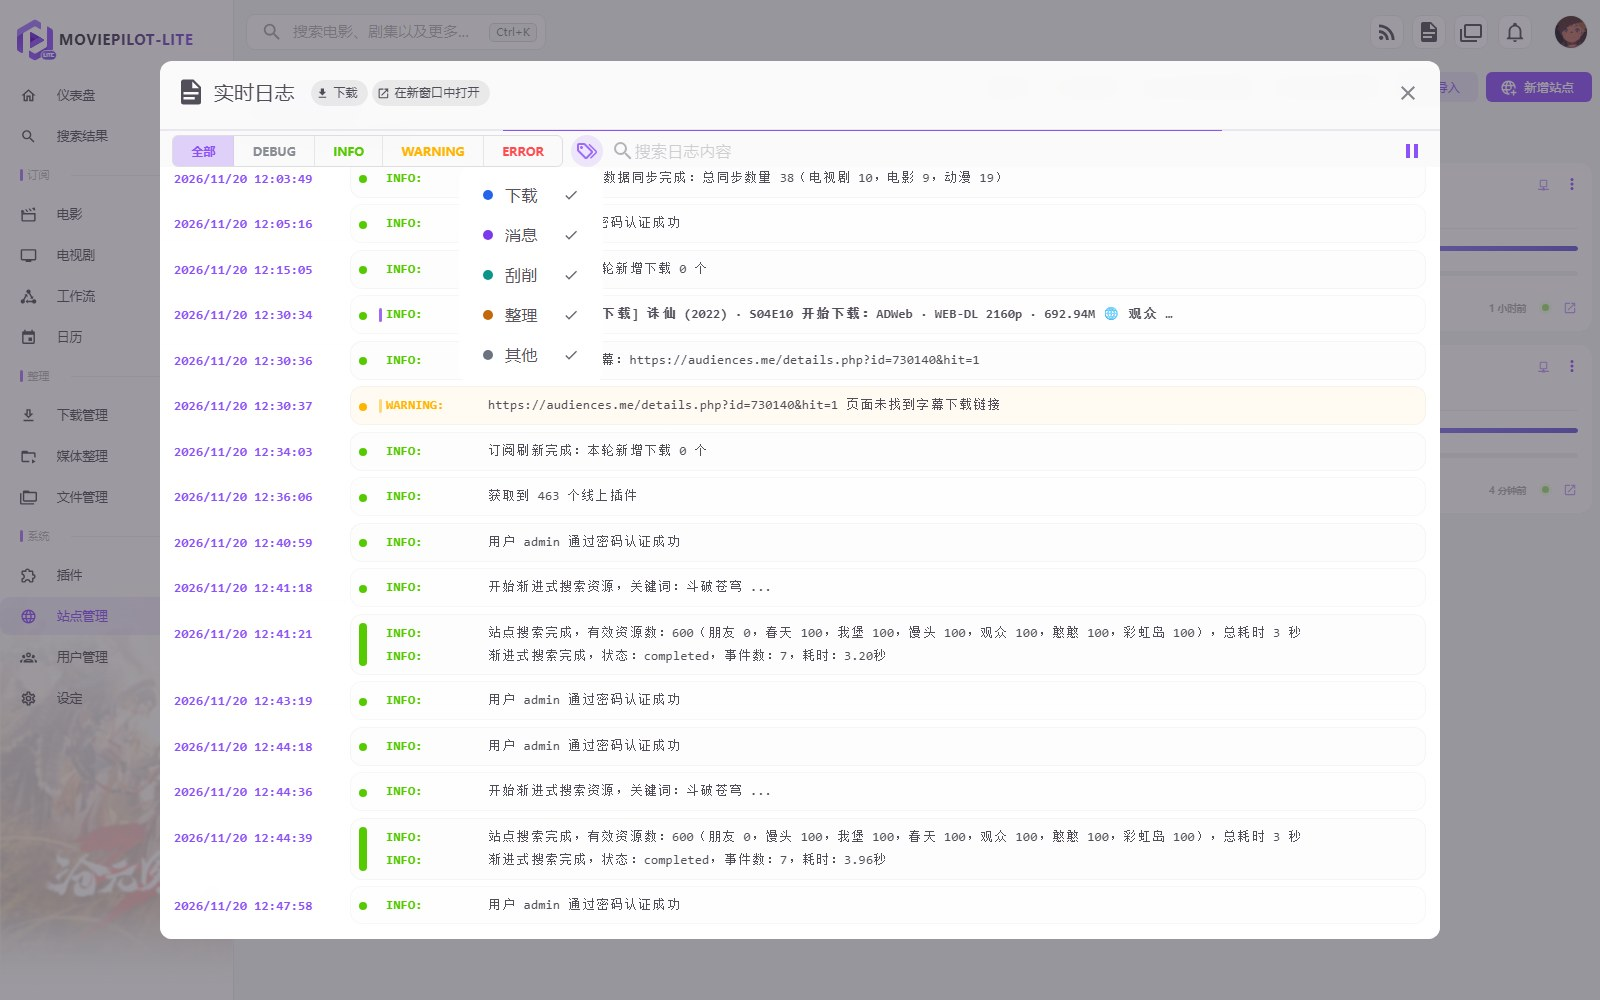
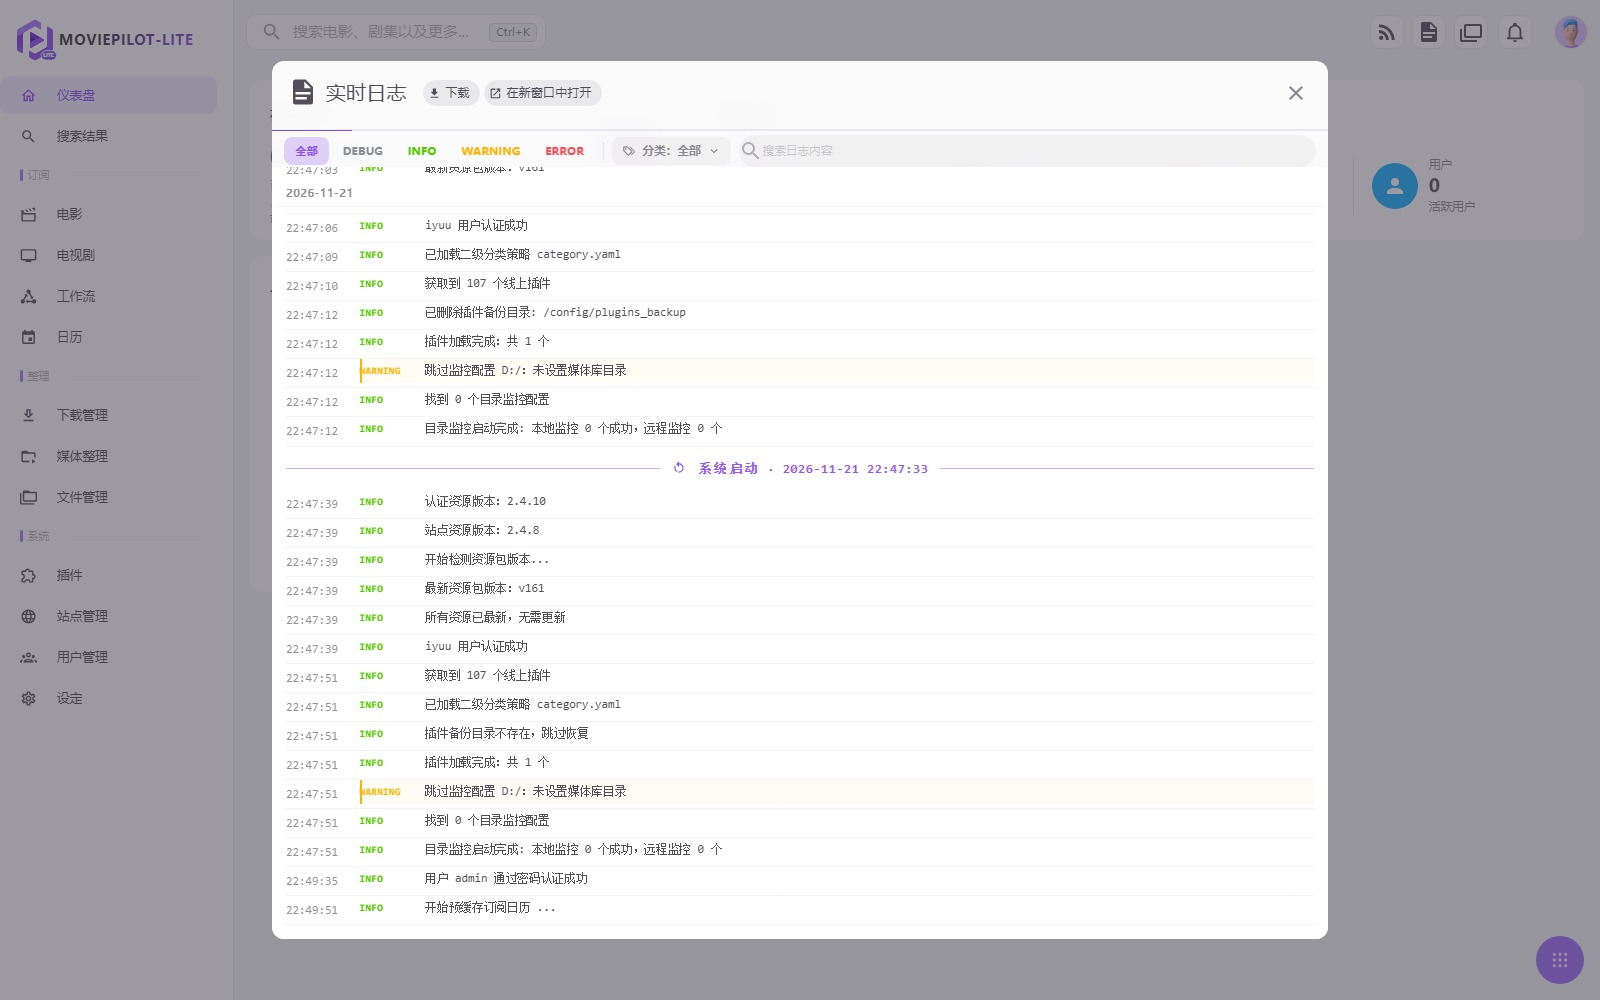
docs: refresh realtime log screenshot

diff --git a/README.md b/README.md
@@ -17,8 +17,8 @@
 | **仪表盘**：媒体统计、今日更新、最新入库 | **搜索结果**：中文标题优先，紧凑卡片与高密度列表可切换 |
 | ![电视剧订阅](docs/screenshots/subscribe.jpg) | ![站点管理](docs/screenshots/site.jpg) |
 | **订阅分组**：按分类自动分组，进度与状态一目了然 | **站点管理**：站点状态、上传下载、分享率与顶部汇总 |
-| ![站点日志](docs/screenshots/site-log.jpg) | ![日志分类](docs/screenshots/logging.jpg) |
-| **站点日志**：按站点记录 RSS 刷新与识别明细 | **日志分类**：下载 / 消息 / 刮削 / 整理分类着色与筛选 |
+| ![站点日志](docs/screenshots/site-log.jpg) | ![实时日志](docs/screenshots/logging.jpg) |
+| **站点日志**：按站点记录 RSS 刷新与识别明细 | **实时日志**：紧凑三列、级别与分类筛选、跨天分隔 |
 | ![订阅日历](docs/screenshots/calendar.jpg) | ![媒体整理](docs/screenshots/history.jpg) |
 | **订阅日历**：月 / 周视图、分类筛选、今日更新与本周待播 | **媒体整理**：剧集封面卡片，站点图标、转移详情一目了然 |
 
